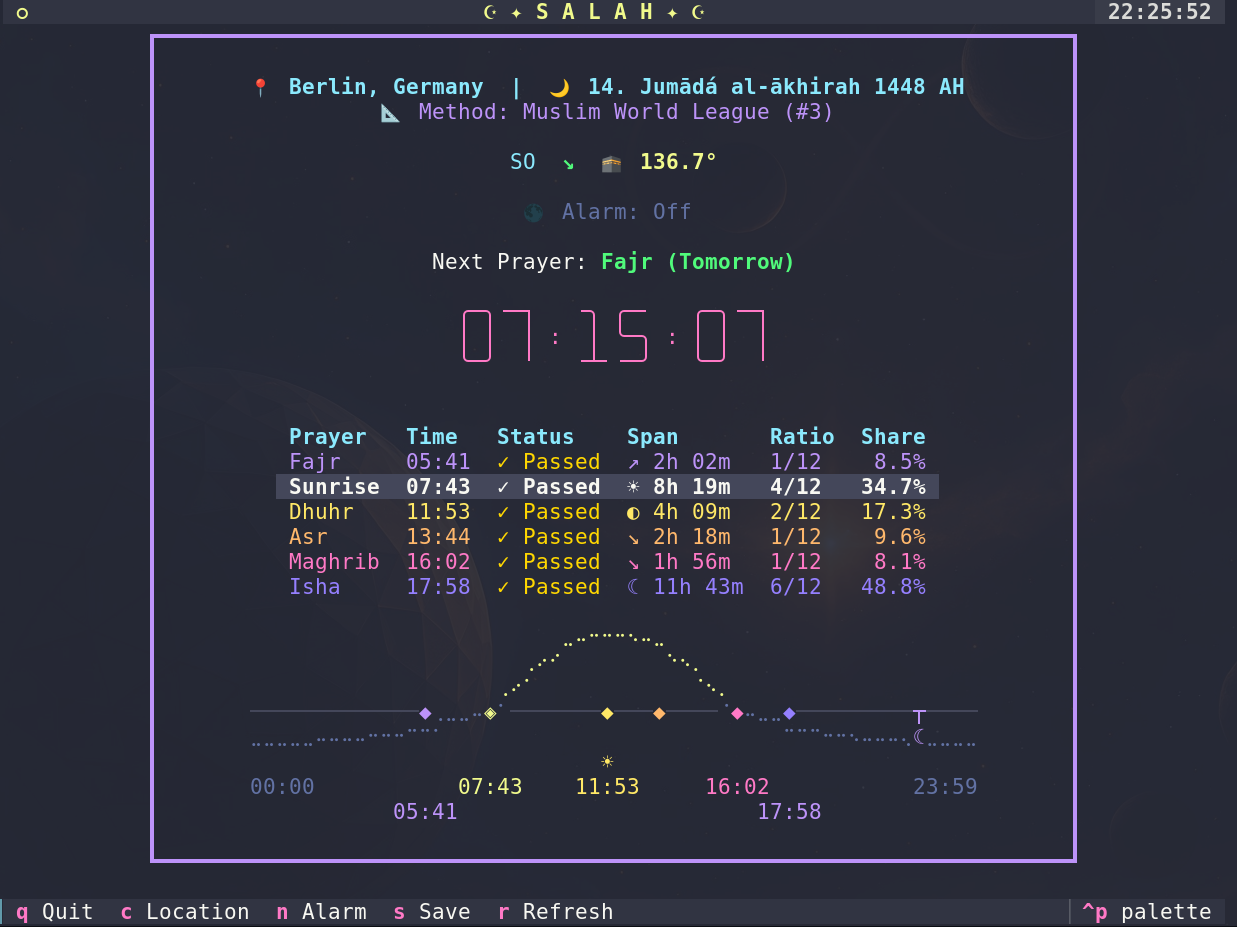
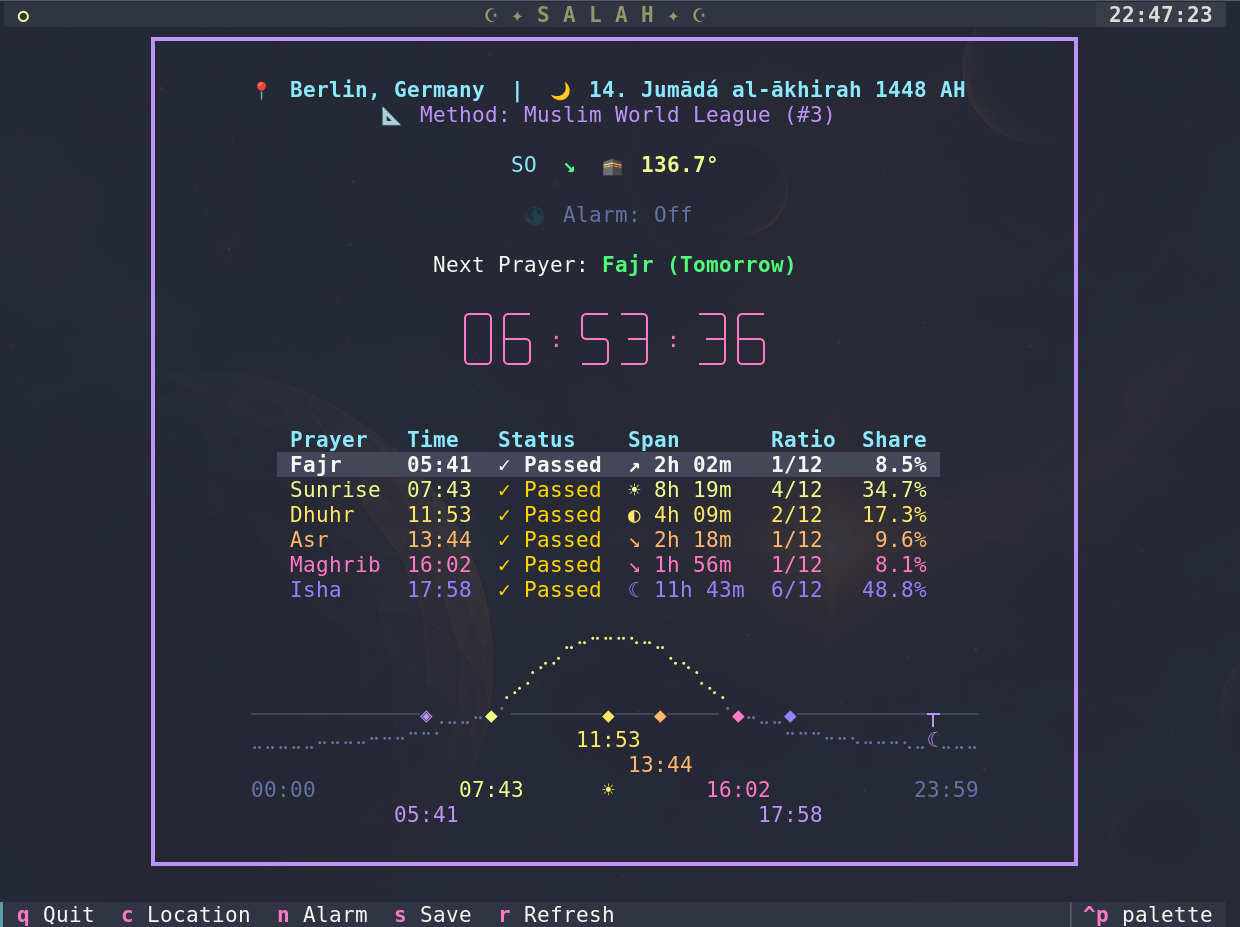
Add files via upload

diff --git a/salah_tui.py b/salah_tui.py
@@ -250,6 +250,13 @@ def sun_arc(
         for k in PRAYER_KEYS
     }
 
+    def col_of(key: str) -> int:
+        return max(0, min(W - 1, round((to_min(prayer_times[key]) / 1440.0) * (W - 1))))
+
+    dh_col = col_of("Dhuhr")
+    dh_str = prayer_times["Dhuhr"].strftime("%H:%M")
+    dh_start = max(0, min(W - len(dh_str), dh_col - len(dh_str) // 2))
+
     lines: list[str] = []
     for r in range(H):
         row_chars: list[str] = []
@@ -266,12 +273,13 @@ def sun_arc(
                 glyph = "◈" if p_name == selected_prayer else "◆"
                 row_chars.append(f"[b {p_color}]{glyph}[/]")
             elif r == HORIZON and c == sun_col and sun_row != HORIZON:
-                # Sauberer Schnittpunkt der Live-Linie auf der X-Achse
                 cross = "┴" if sun_row < HORIZON else "┬"
                 row_chars.append(f"[{sun_color}]{cross}[/]")
             elif is_sun_ray:
-                # Klare dünne vertikale Linie von Sonne/Mond bis zur X-Achse
                 row_chars.append(f"[{sun_color}]│[/]")
+            elif r == 4 and dh_start <= c < dh_start + len(dh_str) and not grid[r][c]:
+                # Dhuhr direkt in die unterste Zeile der Kurve setzen (mittig unter seinem Punkt)
+                row_chars.append(f"[#ffe866]{dh_str[c - dh_start]}[/]")
             elif grid[r][c]:
                 ch = chr(0x2800 + grid[r][c])
                 color = "#f1fa8c" if r < HORIZON else "#6272a4"
@@ -282,55 +290,37 @@ def sun_arc(
                 row_chars.append(" ")
         lines.append("".join(row_chars))
 
-    # Fußzeile exakt auf W=56 Spalten ausrichten, sodass jede Zeit mittig unter ihrem Marker steht
-    footer_chars = [" "] * W
-    footer_styles: dict[int, str] = {}
+    def render_label_row(items: list[tuple[int, str, str]], extra_sun_col: int | None = None) -> str:
+        chars = [" "] * W
+        styles: dict[int, str] = {}
+        if extra_sun_col is not None:
+            chars[extra_sun_col] = "☀"
+            styles[extra_sun_col] = "#ffe866"
+        for center_col, text, color in items:
+            start = max(0, min(W - len(text), center_col - len(text) // 2))
+            for idx, ch in enumerate(text):
+                chars[start + idx] = ch
+                styles[start + idx] = color
+        return "".join(f"[{styles[i]}]{ch}[/]" if i in styles else ch for i, ch in enumerate(chars))
 
-    def place_label(center_col: int, text: str, color: str) -> None:
-        start = max(0, min(W - len(text), center_col - len(text) // 2))
-        for idx, ch in enumerate(text):
-            footer_chars[start + idx] = ch
-            footer_styles[start + idx] = color
+    # Zeile 1 unter der Kurve: Asr (direkt unter Dhuhr)
+    lines.append(render_label_row([
+        (col_of("Asr"), prayer_times["Asr"].strftime("%H:%M"), "#ffb86c"),
+    ]))
 
-    def col_of(key: str) -> int:
-        return max(0, min(W - 1, round((to_min(prayer_times[key]) / 1440.0) * (W - 1))))
+    # Zeile 2 unter der Kurve: 00:00, Sunrise, Sonne unter Dhuhr, Maghrib, 23:59
+    lines.append(render_label_row([
+        (0, "00:00", "#6272a4"),
+        (col_of("Sunrise"), prayer_times["Sunrise"].strftime("%H:%M"), "#f1fa8c"),
+        (col_of("Maghrib"), prayer_times["Maghrib"].strftime("%H:%M"), "#ff79c6"),
+        (W - 1, "23:59", "#6272a4"),
+    ], extra_sun_col=dh_col))
 
-    place_label(0, "00:00", "#6272a4")
-    place_label(col_of("Sunrise"), prayer_times["Sunrise"].strftime("%H:%M"), "#f1fa8c")
-    dh_col = col_of("Dhuhr")
-    place_label(dh_col, prayer_times["Dhuhr"].strftime("%H:%M"), "#ffe866")
-    place_label(col_of("Maghrib"), prayer_times["Maghrib"].strftime("%H:%M"), "#ff79c6")
-    place_label(W - 1, "23:59", "#6272a4")
-
-    styled_footer = "".join(
-        f"[{footer_styles[i]}]{ch}[/]" if i in footer_styles else ch
-        for i, ch in enumerate(footer_chars)
-    )
-
-    # Sonne direkt über der Dhuhr-Uhrzeit platzieren
-    sun_line = [" "] * W
-    sun_line[dh_col] = "[#ffe866]☀[/]"
-    lines.append("".join(sun_line))
-    lines.append(styled_footer)
-
-    # Zweite Fußzeile: nur Fajr & Isha exakt unter ihren Punkten
-    sub_chars = [" "] * W
-    sub_styles: dict[int, str] = {}
-
-    def place_sub(center_col: int, text: str, color: str) -> None:
-        start = max(0, min(W - len(text), center_col - len(text) // 2))
-        for idx, ch in enumerate(text):
-            sub_chars[start + idx] = ch
-            sub_styles[start + idx] = color
-
-    place_sub(col_of("Fajr"), prayer_times["Fajr"].strftime("%H:%M"), "#bd93f9")
-    place_sub(col_of("Isha"), prayer_times["Isha"].strftime("%H:%M"), "#bd93f9")
-
-    styled_sub = "".join(
-        f"[{sub_styles[i]}]{ch}[/]" if i in sub_styles else ch
-        for i, ch in enumerate(sub_chars)
-    )
-    lines.append(styled_sub)
+    # Zeile 3 unter der Kurve: Fajr & Isha
+    lines.append(render_label_row([
+        (col_of("Fajr"), prayer_times["Fajr"].strftime("%H:%M"), "#bd93f9"),
+        (col_of("Isha"), prayer_times["Isha"].strftime("%H:%M"), "#bd93f9"),
+    ]))
 
     return "\n".join(lines)
 
